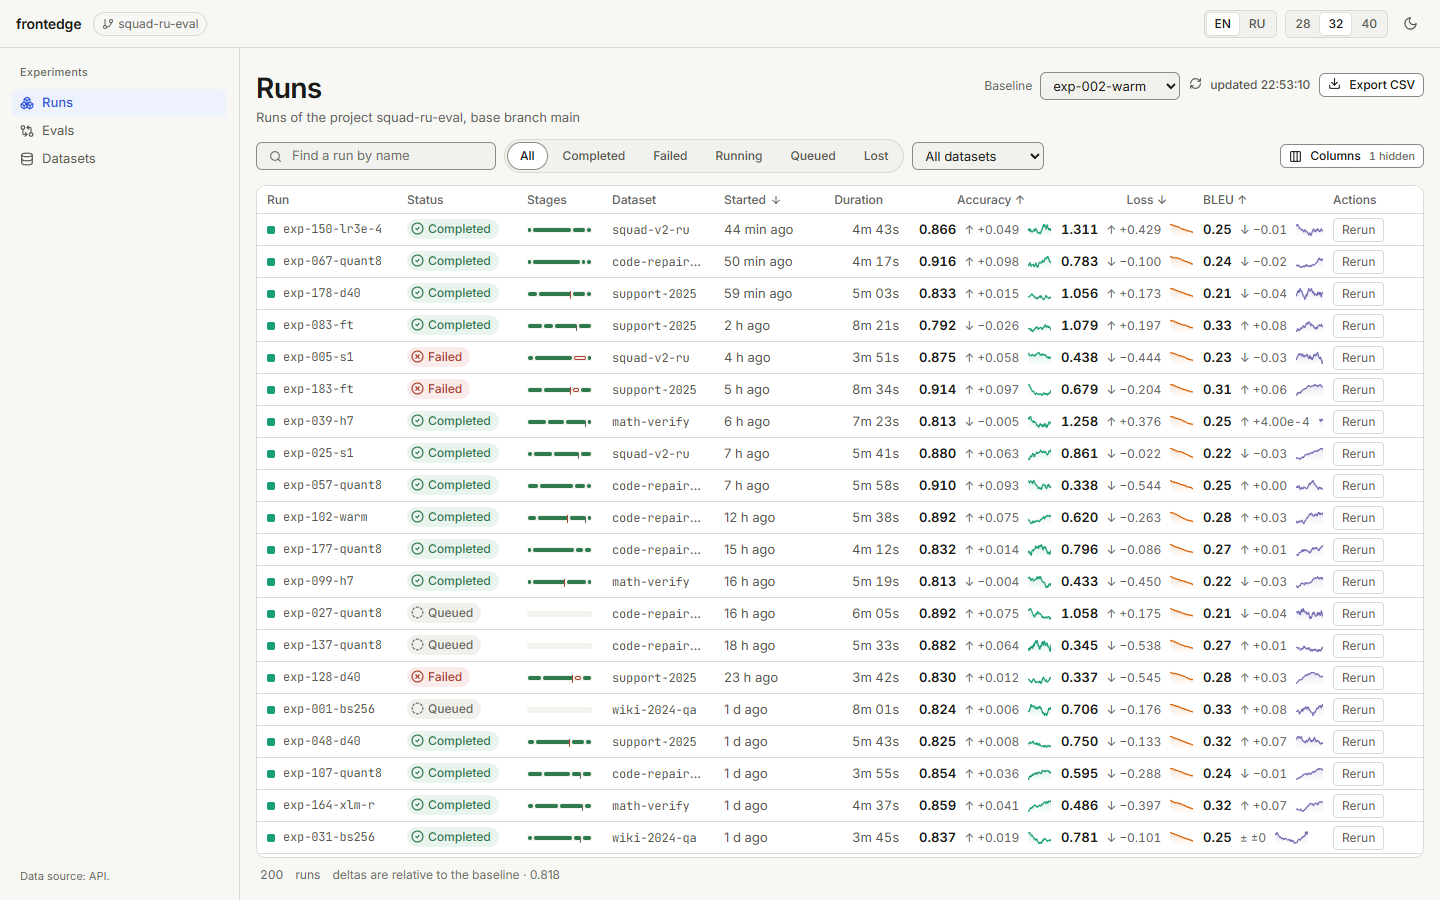
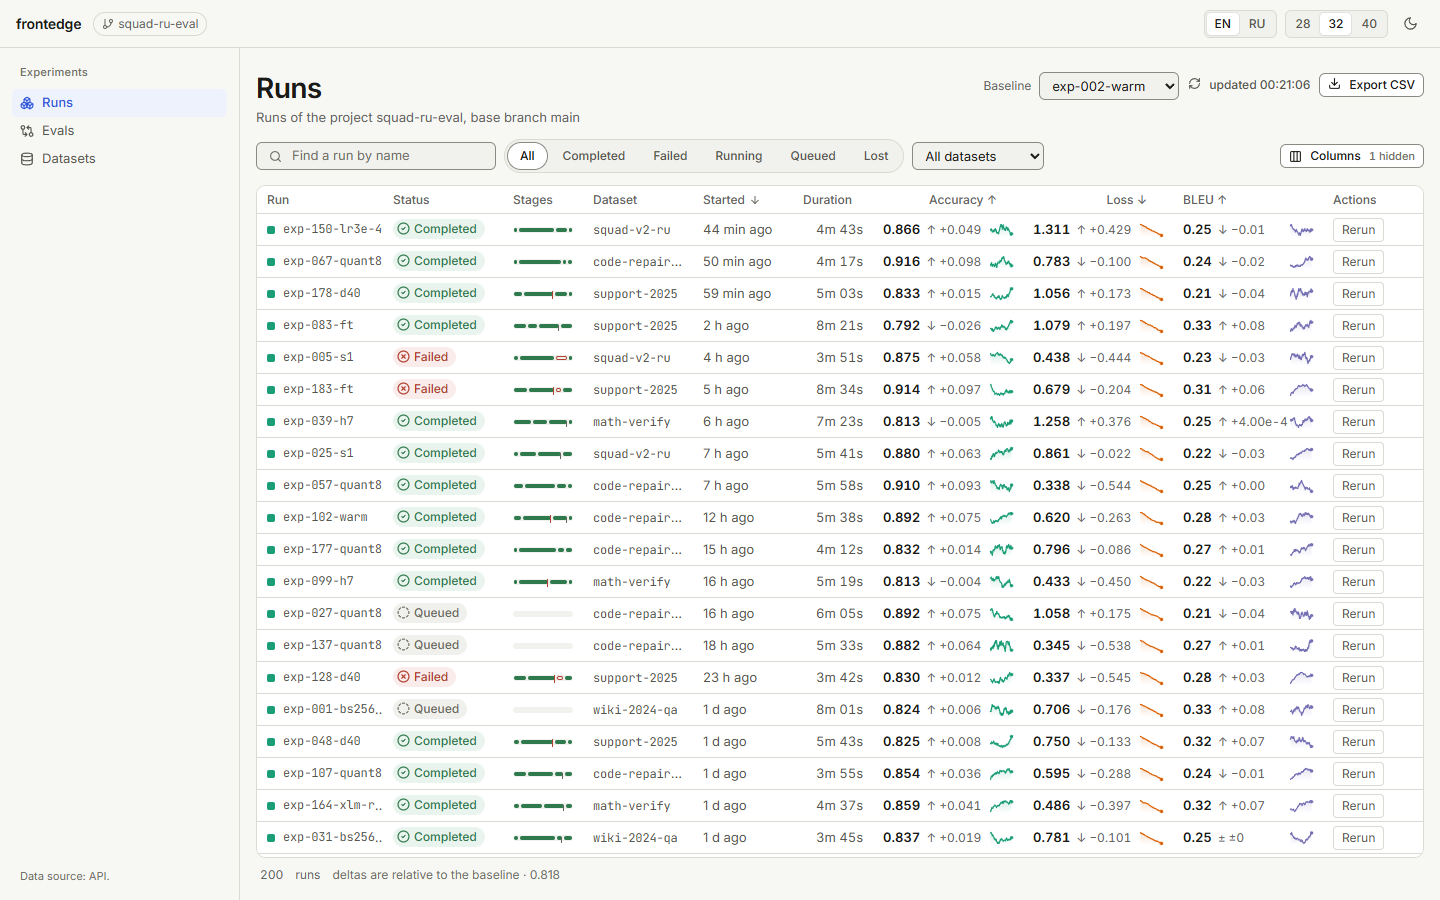
fix(ui): pin the sparkline to the cell's right edge
The sparkline followed the delta, so a wider number pushed it right and a column of graphs had no common baseline. It is now positioned in the cell's right padding, which keeps every graph in a column on one line and stops the cell from clipping its content (the metric column was 12px short). The browser gate measures the spread and fails above one pixel.

diff --git a/packages/ui/src/patterns/RunsTable.tsx b/packages/ui/src/patterns/RunsTable.tsx
@@ -83,9 +83,9 @@ export function RunsTable({
       name: columnHelper.accessor("name", {
         id: "name",
         header: "Run",
-        size: 140,
+        size: 126,
         cell: (info) => (
-          <span className="fe-run-name">
+          <span className="fe-run-name" title={info.getValue()}>
             <span className="fe-run-name__dot" aria-hidden />
             <span className="fe-mono">{info.getValue()}</span>
             {info.row.original.id === baselineId ? (
@@ -105,7 +105,7 @@ export function RunsTable({
       ribbon: columnHelper.display({
         id: "ribbon",
         header: () => t("column.stages"),
-        size: 85,
+        size: 80,
         enableSorting: false,
         cell: (info) => (
           <RunRibbon stages={info.row.original.stages} events={info.row.original.events} height={6} />
@@ -115,8 +115,12 @@ export function RunsTable({
       dataset: columnHelper.accessor("dataset", {
         id: "dataset",
         header: "Dataset",
-        size: 112,
-        cell: (info) => <span className="fe-mono">{info.getValue()}</span>,
+        size: 110,
+        cell: (info) => (
+          <span className="fe-mono" title={info.getValue()}>
+            {info.getValue()}
+          </span>
+        ),
       }) as ColumnDef<Run, unknown>,
 
       gitSha: columnHelper.accessor("gitSha", {
@@ -129,7 +133,7 @@ export function RunsTable({
       startedAt: columnHelper.accessor("startedAt", {
         id: "startedAt",
         header: () => t("column.started"),
-        size: 110,
+        size: 100,
         cell: (info) => (
           <span title={formatAbsoluteTime(toTime(info.getValue()), lang)}>
             {formatRelativeTime(toTime(info.getValue()), now, lang)}
@@ -140,7 +144,7 @@ export function RunsTable({
       durationMs: columnHelper.accessor("durationMs", {
         id: "durationMs",
         header: () => t("column.duration"),
-        size: 85,
+        size: 80,
         cell: (info) => <span className="fe-num">{formatDuration(info.getValue(), lang)}</span>,
       }) as ColumnDef<Run, unknown>,
     };
@@ -171,7 +175,7 @@ export function RunsTable({
             </span>
           );
         },
-        size: 142,
+        size: 150,
         cell: (info) => {
           const run = info.row.original;
           const spec = specFor(id);
@@ -204,7 +208,7 @@ export function RunsTable({
             </span>
           );
         },
-        size: 130,
+        size: 150,
         cell: (info) => {
           const run = info.row.original;
           const spec = specFor(id);

diff --git a/packages/ui/src/patterns/MetricCell.tsx b/packages/ui/src/patterns/MetricCell.tsx
@@ -63,13 +63,17 @@ export function MetricCell({
         </span>
       ) : null}
       {withSparkline && series && series.length > 1 ? (
-        <Sparkline
-          values={series}
-          color={color}
-          width={34}
-          height={14}
-          label={t("metric.dynamics", { label: label ?? "" })}
-        />
+        // Pinned to the right edge: the sparklines of a column must share one baseline, and the
+        // delta before them is as wide as its number.
+        <span className="fe-metric__spark">
+          <Sparkline
+            values={series}
+            color={color}
+            width={24}
+            height={14}
+            label={t("metric.dynamics", { label: label ?? "" })}
+          />
+        </span>
       ) : null}
     </span>
   );

diff --git a/packages/ui/src/styles/patterns.css b/packages/ui/src/styles/patterns.css
@@ -162,10 +162,23 @@
 /* --- Metric -------------------------------------------------------- */
 
 .fe-metric {
-  display: inline-flex;
+  position: relative;
+  display: flex;
   align-items: center;
-  gap: var(--fe-space-2);
+  gap: 6px;
   min-width: 0;
+  width: 100%;
+  /* The sparkline is taken out of the flow, so a wide delta never pushes it. */
+  padding-right: 30px;
+}
+
+.fe-metric__spark {
+  position: absolute;
+  top: 0;
+  right: 0;
+  bottom: 0;
+  display: flex;
+  align-items: center;
 }
 
 .fe-metric__value {

diff --git a/CHANGELOG.md b/CHANGELOG.md
@@ -63,6 +63,9 @@ The following are **public contracts** and change only in a major release:
   `fe-muted`, `dim` → `fe-dim`, so they cannot collide with the host application.
 - The run screen no longer hardcodes accuracy, loss, F1 and tokens; the same code path serves
   any metric.
+- The sparkline in a metric cell is pinned to the cell's right edge: the graphs of a column share
+  one baseline even when the deltas differ in width. The cell no longer clips its content, and the
+  browser gate checks both.
 - The interface is English by default with a Russian toggle. Numbers, durations, relative times
   and byte sizes are formatted for the selected language; domain terms (Run, Dataset, Baseline,
   Eval) stay English in both.
